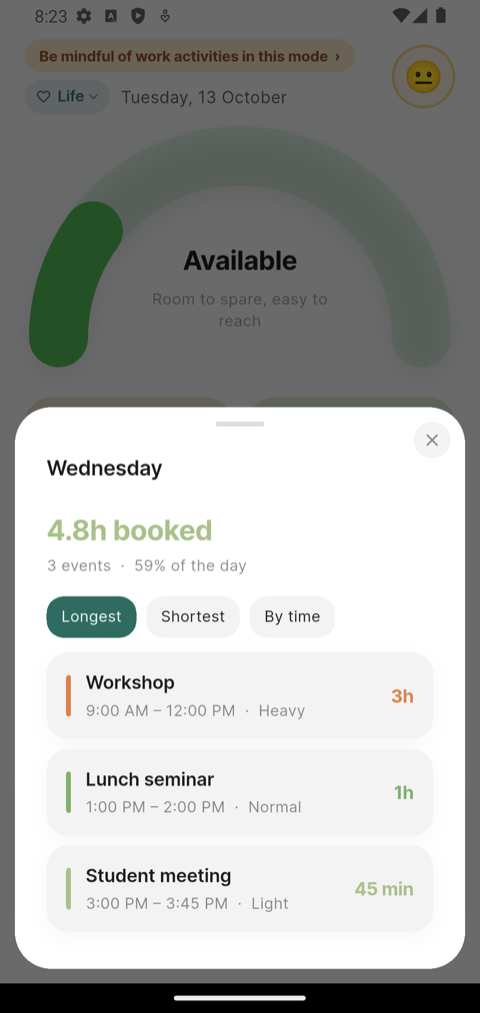
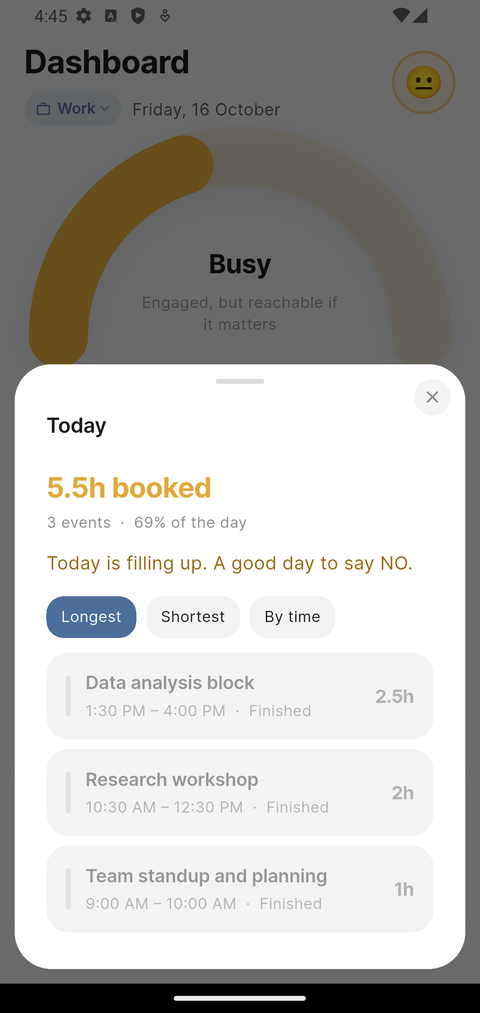
tutorial_heads_up_day_rating_insights

diff --git a/tutorial/index.html b/tutorial/index.html
@@ -199,7 +199,7 @@
 <header>
   <h1>Using BAI</h1>
   <!-- Change this date whenever the guide is edited. -->
-  <p class="updated">Last updated: 13 October 2026</p>
+  <p class="updated">Last updated: 16 October 2026</p>
   <p class="lede">
     BAI helps you understand your workload and become more aware of your work-life boundaries. 
     It can support you in communicating and negotiating these boundaries with others, 
@@ -248,7 +248,7 @@
   <p class="eyebrow">Read this one first</p>
   <h2>What BAI is actually for, day to day</h2>
   <p>
-    Everything after this is setup, done once. These seven are the ones worth
+    Everything after this is setup, done once. These eight are the ones worth
     remembering — they are what using BAI looks like most days, once it is running.
   </p>
 
@@ -374,6 +374,12 @@
       <p>
         Forgot to say? When something suggests you worked, BAI asks the next day:
         <em>Did you work outside your hours yesterday?</em> Your answer only saves the hours.
+        If you already set the time with the yellow line, it does not ask again.
+      </p>
+      <p>
+        Answer <strong>None</strong> three times in a row for the same weekday and BAI
+        skips that weekday the next week, then asks again. Work you set with the yellow
+        line on any day brings the question back straight away.
       </p>
       <p class="pillar-when">
         The line can be tapped while your schedule is on. With the schedule off, switch
@@ -395,6 +401,11 @@
         day in a small window, a week or a month on a page of its own.
       </p>
       <p>
+        Under the total it says how full the stretch is, in the same words and colour
+        as the dashboard: <em>Today is filling up. A good day to say NO.</em> Leave an
+        event out and it updates there and then.
+      </p>
+      <p>
         You can sort the list, and tap an event that has not ended yet to leave it
         out or set a reminder to prepare.
       </p>
@@ -404,8 +415,44 @@
       </p>
     </div>
     <figure>
-      <img src="img/stats-day.png" alt="A window over the dashboard listing one day's booked hours and its three events, longest first" onerror="shotMissing(this)">
+      <img src="img/stats-day.png" alt="A window over the dashboard showing 5.5 hours booked, 3 events, 69% of the day, the line Today is filling up. A good day to say NO., and the day's events longest first" onerror="shotMissing(this)">
       <figcaption>Tap the figures · see the events</figcaption>
+    </figure>
+  </div>
+
+  <div class="step" id="pillars-starting-late-or-staying-on">
+    <div class="step-body">
+      <h3><span class="num">8</span>Starting late or staying on? <span class="new">New</span></h3>
+      <p>
+        With <strong>Fixed hours</strong> or <strong>Custom hours</strong>, BAI tells you
+        <strong>15 minutes before</strong> work starts and ends:
+        <em>Work starts at 9:00</em>, <em>Work ends at 17:00</em>.
+      </p>
+      <ul>
+        <li>On the lock screen, the notification has three buttons:
+            <strong>+15 min</strong>, <strong>+30 min</strong> and <strong>+1 h</strong>.
+            On an iPhone, <strong>press and hold</strong> the notification to see them;
+            on Android they show straight away. Tapping one opens BAI and moves that
+            start or end.</li>
+        <li>Tap the notification itself and BAI asks <em>Start later today?</em> or
+            <em>Stay longer today?</em> with the same three choices.</li>
+        <li>With BAI open, the same note comes as a banner with a
+            <strong>Later</strong> button.</li>
+      </ul>
+      <p>
+        It is for <strong>that day only</strong>; your schedule is not changed. Starting
+        later keeps you in Life until then. Staying longer keeps you in Work, and that
+        time counts as work. Each start and end gets one heads-up.
+      </p>
+      <p class="pillar-when">
+        To start early, switch to Work with the mode chip, as before.
+        <a href="#alerts-mode-switches-and-reminders">More about these notices</a>.
+      </p>
+    </div>
+    <figure>
+      <img src="img/heads-up-notification.png" alt="A BAI notification reading Work ends at 5:00pm, BAI switches you to Life mode then, with buttons +15 min, +30 min and +1 h" onerror="shotMissing(this)">
+      <img src="img/heads-up-later.png" alt="The Stay longer today? sheet in BAI, with +15 min, +30 min and +1 h, each showing the new end time" onerror="shotMissing(this)">
+      <figcaption>15 minutes before · move it for today</figcaption>
     </figure>
   </div>
 </section>
@@ -431,6 +478,8 @@
     <li><a href="#schedule-remind-me-to-prepare">get a reminder to prepare</a></li>
     <li><a href="#pillars-say-when-you-work-outside-your">say I am working outside my hours</a></li>
     <li><a href="#pillars-see-what-your-hours-are-made-of">see which events make up my hours</a></li>
+    <li><a href="#pillars-starting-late-or-staying-on">start work later or stay on today</a></li>
+    <li><a href="#mood-how-did-yesterday-go">say how yesterday went</a></li>
     <li><a href="#schedule-what-counts">find out why my day looks too full</a></li>
     <li><a href="#alerts-today-is-overloaded">understand an overloaded alert</a></li>
     <li><a href="#controls-choose-how-your-mode-is-decided">set my working hours</a></li>
@@ -456,10 +505,12 @@
     This is what opens when you launch BAI, and where the tour begins and ends.
   </p>
   <p>
-    The first time you open BAI after an update, a short set of cards shows over the
-    dashboard: the everyday things, one per card. The pictures on them are examples
-    only. Tap <strong>Next</strong> to go through them or <strong>Skip</strong> to
-    close; the last card has a button that opens this guide.
+    The first time you open BAI, a short set of cards shows over the dashboard: the
+    everyday things, one per card. After an update you see only the cards you have
+    not seen before, under <em>New since you last looked</em>, and nothing if there
+    are none. The pictures on them are examples only. Tap <strong>Next</strong> to
+    go through them or <strong>Skip</strong> to close; the last card has a button
+    that opens this guide.
   </p>
   <div class="step" id="home-what-you-are-looking-at">
     <div class="step-body">
@@ -498,7 +549,9 @@
         small window opens over the dashboard.
       </p>
       <ul>
-        <li>It shows the hours booked, the share of the day, and that day's events.</li>
+        <li>It shows the hours booked, the share of the day, how full the day is —
+            <em>Today is filling up. A good day to say NO.</em>, in the dashboard's
+            colour — and that day's events.</li>
         <li><strong>Longest / Shortest / By time</strong> changes the order of the
             list.</li>
         <li>Tap an event that has not ended yet to <strong>leave it out</strong> or set
@@ -525,6 +578,8 @@
             colour, the fuller the day.</li>
         <li><strong>Tap a box</strong> to see only that day's events; tap it again for
             all of them.</li>
+        <li>The same line says how full the stretch is: <em>This week is filling up.
+            A good week to say NO.</em></li>
         <li>The list sorts and answers to a tap the same way as the day window. A long
             list shows the first eight, with <strong>Show all</strong> under them.</li>
       </ul>
@@ -1210,9 +1265,16 @@
       <ul>
         <li><strong>Unavailable</strong> stays until <em>you</em> change it, through
             midnight and beyond.</li>
-        <li><strong>Stretched</strong> is raised once, by the first event of a day that
-            is booked past what it holds. From then on, a meeting starting, ending or
-            being added does not move it.</li>
+        <li><strong>Stretched</strong> is raised by the first event of a day that is
+            booked past what it holds, in either mode.</li>
+        <li>In <strong>Work</strong> mode it stays for the rest of the day, and switching
+            into Work keeps it. A meeting starting, ending or being added does not move
+            it.</li>
+        <li>In <strong>Life</strong> mode it is only there while an event runs: each
+            event on that day raises it, and you are back to your own status when it
+            ends. Switching into Life during an event keeps it until the event ends.</li>
+        <li>Move off Stretched yourself on a Work day and BAI stops raising it that day:
+            meetings take you to Heads-down and then back to the status you set.</li>
         <li>Change your mind about the load — <strong>set events aside</strong> with
             <em>Don't count</em>, or delete or shorten them — and if the day is no longer
             overloaded, the Stretched BAI raised <strong>comes down by itself</strong>
@@ -1310,9 +1372,13 @@
     <div class="step-body">
       <h3><span class="num">3</span>Mode switches and reminders</h3>
       <ul>
-        <li><strong>Work hours starting or ending</strong> — BAI tells you at each block's
-            start and end. On Android, allow <em>Alarms &amp; reminders</em> when BAI asks
-            (once) so these arrive on the minute even with the screen off.</li>
+        <li><strong>Work hours starting or ending</strong> — with Fixed or Custom hours,
+            BAI tells you <strong>15 minutes before</strong> each start and end, with
+            buttons to move it later for that day
+            (<a href="#pillars-starting-late-or-staying-on">Daily use, step 8</a>). The
+            switch itself then happens on time, with a banner if BAI is open. On Android,
+            allow <em>Alarms &amp; reminders</em> when BAI asks (once) so these arrive on
+            the minute even with the screen off.</li>
         <li><strong>Arriving at a pinned place</strong> — a note that BAI has moved you.</li>
         <li><strong>By Focus</strong> — said in the app when you open BAI, since iPhone
             cannot tell BAI while it is closed.</li>
@@ -1328,11 +1394,16 @@
             question <em>Did you work outside your hours yesterday?</em> (or
             <em>over the weekend?</em>) with an <strong>Answer</strong> button
             (<a href="#pillars">Daily use, step 6</a>).</li>
+        <li><strong>How did yesterday go?</strong> — in the app only, the morning after
+            a work day (<a href="#mood-how-did-yesterday-go">Mood</a>). When the
+            question about work outside your hours is due too, both come in one
+            banner.</li>
       </ul>
     </div>
     <figure>
       <img src="img/alert-banner.png" alt="An in-app banner telling the participant BAI switched them to Work mode" onerror="shotMissing(this)">
-      <figcaption>Alerts · in the app</figcaption>
+      <img src="img/heads-up-banner.png" alt="The dashboard with a banner reading Work starts at 9:00am, BAI switches you to Work mode then, and a Later button" onerror="shotMissing(this)">
+      <figcaption>Alerts · in the app, and 15 minutes before</figcaption>
     </figure>
   </div>
 </section>
@@ -1404,6 +1475,35 @@
     </figure>
   </div>
 
+  <div class="step" id="mood-how-did-yesterday-go">
+    <div class="step-body">
+      <h3><span class="num">4</span>How did yesterday go? <span class="new">New</span></h3>
+      <p>
+        The morning after a work day, BAI may ask <strong>How did yesterday go?</strong>
+        It is a look back at how the day felt to get through, whatever was on your
+        calendar. Tap <strong>Answer</strong> and pick one: <em>Went really well</em>,
+        <em>Went well</em>, <em>Mixed</em>, <em>Hard going</em> or <em>Very hard
+        going</em>, then <strong>Save</strong>.
+      </p>
+      <ul>
+        <li>It is <strong>optional</strong>, and only ever in the app, never on the lock
+            screen. Your answer is saved and changes nothing else.</li>
+        <li>It asks at most once a day, only about yesterday, and only when yesterday was
+            a work day. With your schedule off, it does not ask.</li>
+        <li>Let it pass three times in a row and it rests for a week. Answering any
+            day keeps it coming.</li>
+        <li>When BAI also wants to know about work outside your hours yesterday, both
+            questions come in one banner and one sheet. If you already set that time
+            with the yellow line, you only get this one.</li>
+      </ul>
+    </div>
+    <figure>
+      <img src="img/day-rating-banner.png" alt="The dashboard with a banner reading How did yesterday go? Optional. How the day felt to get through., and an Answer button" onerror="shotMissing(this)">
+      <img src="img/day-rating.png" alt="The How did yesterday go? sheet with five choices, Went really well, Went well (selected), Mixed, Hard going and Very hard going, and a Save button" onerror="shotMissing(this)">
+      <figcaption>The morning after a work day · optional</figcaption>
+    </figure>
+  </div>
+
 </section>
 
 <section id="insights">
@@ -1433,8 +1533,10 @@
     <div class="step-body">
       <h3><span class="num">2</span>Where your time went, and how you felt</h3>
       <p>
-        <strong>Where your time went</strong> splits your logged hours by status, so you
-        can see how much of the week you spent holding people off.
+        <strong>Where your time went</strong> splits the time a status was set — by you,
+        or by your calendar — by status, so you can see how much of the week you spent
+        holding people off. The status BAI rests on when your mode changes (Available
+        in Life, Busy in Work) is not counted, so your nights are not in it.
       </p>
       <p>
         <strong>How you've felt</strong> sums up your check-ins in words, not numbers:
@@ -1468,6 +1570,10 @@
         If you change your schedule, the count starts again from that moment. Days you
         worked before the change are not measured against the new hours.
       </p>
+      <p>
+        Time you chose to stay on from the 15-minute heads-up still counts as outside
+        your hours, and BAI says how much of it you chose.
+      </p>
       <p class="why">
         This is the boundary, measured. Hours outside your own window are the number to
         watch.
@@ -1499,11 +1605,11 @@
       <p>
         The work you did in Life mode that was not on your calendar: the time you set
         with the yellow line on the dashboard, and what you answered when BAI asked the
-        next day. It shows the hours and days for the week, and the total over four
-        weeks.
+        next day. It shows the hours, and the days it happened on, over the last 7
+        days.
       </p>
       <p>
-        It appears once you have recorded some. It is not part of your work hours, and
+        It appears once you have recorded some that week. It is not part of your work hours, and
         calendar events in Life mode are counted separately, under
         <em>Events in your personal time</em>.
       </p>
@@ -1519,12 +1625,14 @@
       <h3><span class="num">5</span>What stands out</h3>
       <p>
         The last panel is written in sentences: patterns BAI has noticed across the
-        period, such as work touching every working day, or less room as the week goes on.
+        period, such as most of the week spent Heads-down or heavier, less room as the
+        week goes on, or work outside your hours adding up.
       </p>
       <p>
         Once there have been three overloaded days in four weeks, it also says what
-        happened on them — whether you kept <em>Stretched</em> or changed it, by hand or
-        after a check-in — and whether those days felt heavier than the rest.
+        happened on them — whether you left <em>Stretched</em> as BAI set it or changed
+        it, by hand or after a check-in — and whether those days felt heavier than the
+        rest.
       </p>
       <p class="why">
         These are observations, not instructions. They are there to be recognised or
@@ -1532,7 +1640,7 @@
       </p>
     </div>
     <figure>
-      <img src="img/insights-standout.png" alt="What stands out in Insights, with two observations: Work touched every work day, and Fridays run heaviest">
+      <img src="img/insights-standout.png" alt="What stands out in Insights, with two observations: Mostly guarded, 63% of the time you or your calendar set a status this week was Heads-down or heavier; and 4.5h of work outside hours, on 3 days">
       <figcaption>Insights · what stands out</figcaption>
     </figure>
   </div>
